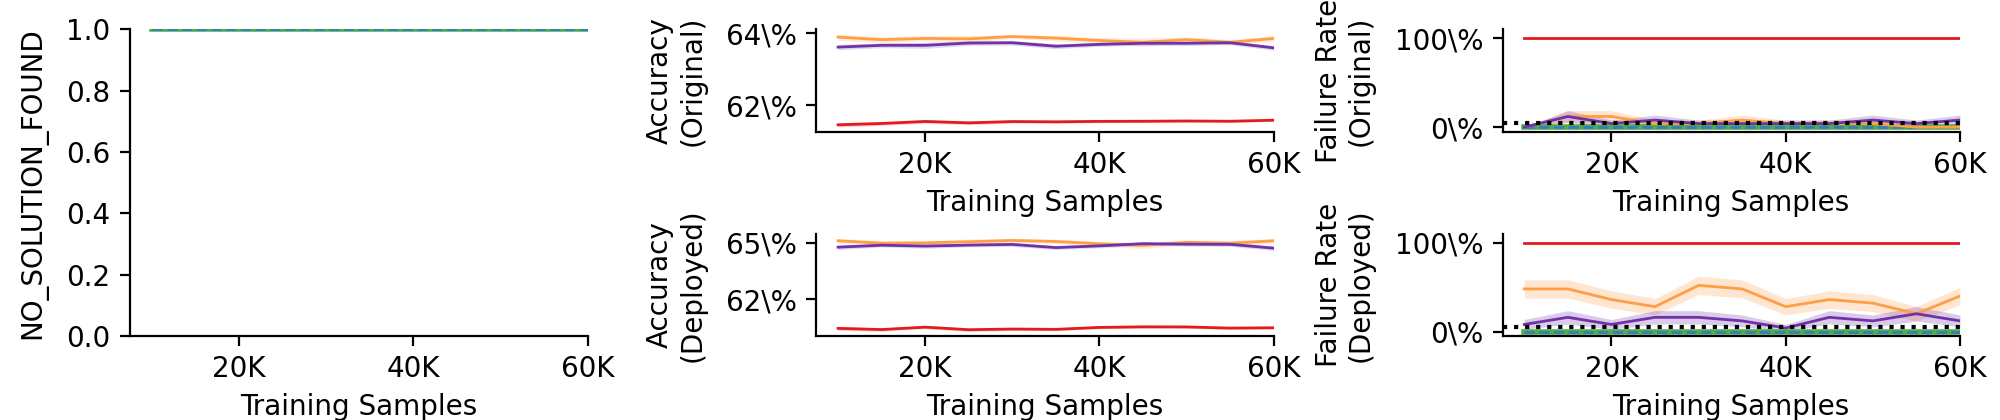
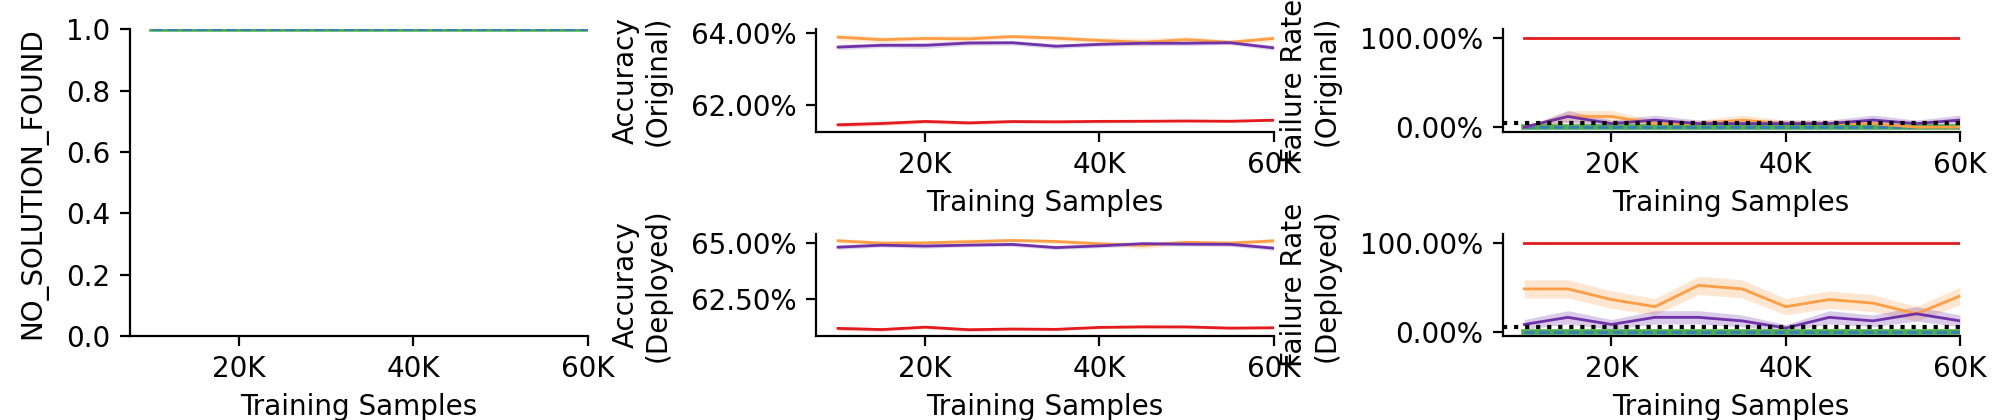
Fixed minor formatting mistake in charts

diff --git a/Python/experiments/scripts/iclr_figures_brazil.py b/Python/experiments/scripts/iclr_figures_brazil.py
@@ -31,7 +31,7 @@ if __name__ == '__main__':
 	figpath = f'figures/iclr_{mode}_demographic_shift_brazil_rl'
 
 	# Figure format
-	fmt = 'pdf'
+	fmt = 'png'
 	if fmt == 'pdf':
 		matplotlib.rc('pdf', fonttype=42)
 
@@ -50,7 +50,7 @@ if __name__ == '__main__':
 	def thousands_fmt(x, pos):
 		return f'{x/10**3:,.0f}K'
 	def percentage_fmt(x, pos):
-		return f'{x:,.0f}\%'
+		return f'{x:,.2f}%'
 	ThousandsFmt = mtick.FuncFormatter(thousands_fmt)
 	PercentageFmt = mtick.FuncFormatter(percentage_fmt)
 

diff --git a/Python/experiments/scripts/iclr_figures_adult.py b/Python/experiments/scripts/iclr_figures_adult.py
@@ -78,7 +78,7 @@ if __name__ == '__main__':
 	def thousands_fmt(x, pos):
 		return f'{x/10**3:,.0f}K'
 	def percentage_fmt(x, pos):
-		return f'{x:,.0f}\%'
+		return f'{x:,.2f}%'
 	ThousandsFmt = mtick.FuncFormatter(thousands_fmt)
 	PercentageFmt = mtick.FuncFormatter(percentage_fmt)
 
